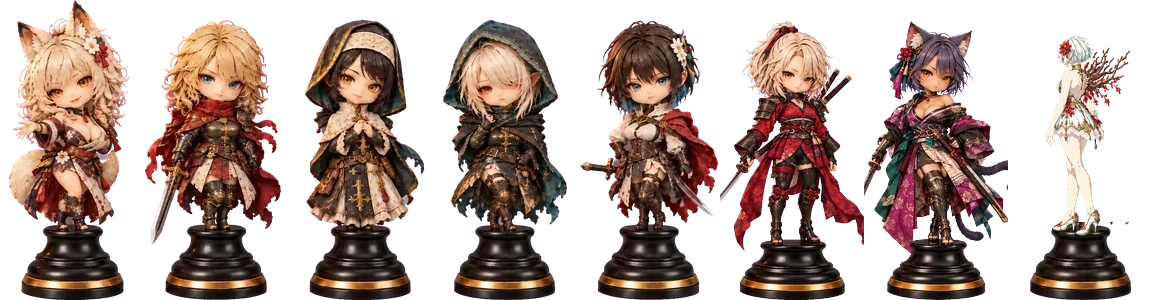
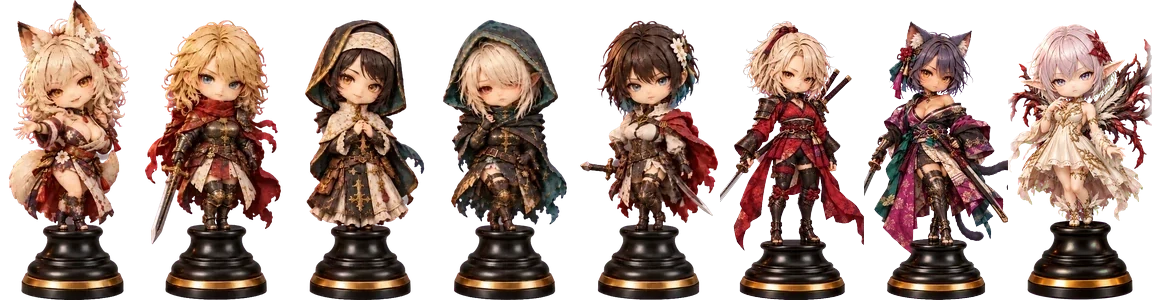
スキル札の種別を縦型・横型・即時・円形の表記に。フィリシアの駒絵を差し替え
Claude-Session: https://claude.ai/code/session_01EzfL2eRTyWvP3wJaydKdc4

Changed region(s): [[0.875, 0.06, 1.0, 1.0]]

diff --git a/index.html b/index.html
@@ -1405,7 +1405,7 @@ const FACES=/*__FACES_START__*/{"blue":"dev/assets/face_blue.webp?v=d1d65e1d","f
 const UPARTS=/*__UPARTS_START__*/{"all":"dev/assets/upart_all.webp?v=b034d68d","common":"dev/assets/upart_common.webp?v=dbfd44b2","mag":"dev/assets/upart_mag.webp?v=b9a34d4c","phys":"dev/assets/upart_phys.webp?v=e8467b5d","taboo":"dev/assets/upart_taboo.webp?v=a8b5e929"}/*__UPARTS_END__*/;
 /* UIの素材。assets/ui_<名前>.webp がビルド時に差し込まれる。leather=操作エリアとサイドエリアの地（継ぎ目なしタイル）/ rewind=逆転の右手の演出絵（黒背景）/ town=街の一枚絵（縦長 941×1672。建物の位置は HUB の表）/
    map=探索の盤面（縦長。上下反転で継ぐ）/ medals=マスのメダル（3×3のシート。透過）/ pieces=キャラクターの駒（横5コマ。透過）/ table=机に置いた地図盤（縦長1枚。盤の内側の位置は TABLE_IN）/ smoke=煙（横3コマ。透過）。どれも無ければコードで描いた代わりの見た目で動く */
-const UI=/*__UI_START__*/{"battle_back_skill":"dev/assets/ui_battle_back_skill.webp?v=15be207c","battle_back_strategy":"dev/assets/ui_battle_back_strategy.webp?v=3cd37fbc","battle_button_frame":"dev/assets/ui_battle_button_frame.webp?v=0bd2fe54","battle_card_frame":"dev/assets/ui_battle_card_frame.webp?v=94ccdbe3","battle_extracted_base":"dev/assets/ui_battle_extracted_base.webp?v=d5fc8f75","battle_extracted_card_frame":"dev/assets/ui_battle_extracted_card_frame.webp?v=e6d3eb7b","battle_face_blue":"dev/assets/ui_battle_face_blue.webp?v=ee087d5e","battle_face_fox":"dev/assets/ui_battle_face_fox.webp?v=76a5d093","battle_face_mage":"dev/assets/ui_battle_face_mage.webp?v=6974f074","battle_face_ninja":"dev/assets/ui_battle_face_ninja.webp?v=2ad5e8c2","battle_face_phyllis":"dev/assets/ui_battle_face_phyllis.webp?v=ed90407e","battle_face_samurai":"dev/assets/ui_battle_face_samurai.webp?v=0425ca9a","battle_face_sister":"dev/assets/ui_battle_face_sister.webp?v=447c034c","battle_face_sword":"dev/assets/ui_battle_face_sword.webp?v=2077b2ff","battle_face_sword_p":"dev/assets/ui_battle_face_sword_p.webp?v=d241ea92","battle_status_frame":"dev/assets/ui_battle_status_frame.webp?v=87f0a57b","battle_strategy_chase":"dev/assets/ui_battle_strategy_chase.webp?v=39356747","battle_strategy_heal":"dev/assets/ui_battle_strategy_heal.webp?v=4ac40551","battle_strategy_redraw":"dev/assets/ui_battle_strategy_redraw.webp?v=0143aa81","battle_strategy_reset":"dev/assets/ui_battle_strategy_reset.webp?v=cc75a6b3","battle_strategy_revive":"dev/assets/ui_battle_strategy_revive.webp?v=12566a9b","battle_strategy_ult":"dev/assets/ui_battle_strategy_ult.webp?v=c94ff79a","battle_tray_full":"dev/assets/ui_battle_tray_full.webp?v=0f564bb4","card_blue":"dev/assets/ui_card_blue.webp?v=ebbc6d54","card_board":"dev/assets/ui_card_board.webp?v=78907028","card_fox":"dev/assets/ui_card_fox.webp?v=747710c3","card_frame":"dev/assets/ui_card_frame.webp?v=f6f34bcf","card_mage":"dev/assets/ui_card_mage.webp?v=56db34cf","card_ninja":"dev/assets/ui_card_ninja.webp?v=004894cf","card_phyllis":"dev/assets/ui_card_phyllis.webp?v=26a1835d","card_samurai":"dev/assets/ui_card_samurai.webp?v=c97c796d","card_sister":"dev/assets/ui_card_sister.webp?v=2687d855","card_sword":"dev/assets/ui_card_sword.webp?v=226d10b8","card_sword_p":"dev/assets/ui_card_sword_p.webp?v=978ef8b1","fac_church":"dev/assets/ui_fac_church.webp?v=d6db7bd7","fac_hut":"dev/assets/ui_fac_hut.webp?v=fc4dfd5c","fac_inn":"dev/assets/ui_fac_inn.webp?v=0f6aa72d","fac_party":"dev/assets/ui_fac_party.webp?v=3522dcd1","fac_shop":"dev/assets/ui_fac_shop.webp?v=54664bca","fac_smith":"dev/assets/ui_fac_smith.webp?v=d648b179","inn_ledger":"dev/assets/ui_inn_ledger.webp?v=841caecc","inn_morn":"dev/assets/ui_inn_morn.webp?v=5ccdcfd0","inn_room":"dev/assets/ui_inn_room.webp?v=003b0995","inn_stable":"dev/assets/ui_inn_stable.webp?v=c160e36d","inn_win":"dev/assets/ui_inn_win.webp?v=78662811","leather":"dev/assets/ui_leather.webp?v=689ae82b","map":"dev/assets/ui_map.webp?v=20a3f245","medals":"dev/assets/ui_medals.webp?v=a1d2f0f6","npc_church":"dev/assets/ui_npc_church.webp?v=fdc70e40","npc_hut":"dev/assets/ui_npc_hut.webp?v=fbae6c7a","npc_inn":"dev/assets/ui_npc_inn.webp?v=a091a3c1","npc_party":"dev/assets/ui_npc_party.webp?v=30068b4c","npc_shop":"dev/assets/ui_npc_shop.webp?v=36a2b627","npc_smith":"dev/assets/ui_npc_smith.webp?v=127a52c8","pieces":"dev/assets/ui_pieces.webp?v=6be7e626","rail_banner":"dev/assets/ui_rail_banner.webp?v=dcad9023","rail_board":"dev/assets/ui_rail_board.webp?v=77644fe6","rail_candle":"dev/assets/ui_rail_candle.webp?v=4520f70f","rail_frame":"dev/assets/ui_rail_frame.webp?v=cf203db5","rewind":"dev/assets/ui_rewind.webp?v=ca7ccacd","sm_card":"dev/assets/ui_sm_card.webp?v=6e4443be","sm_icons":"dev/assets/ui_sm_icons.webp?v=80b73dbe","sm_row":"dev/assets/ui_sm_row.webp?v=20ceff8f","sm_sheet":"dev/assets/ui_sm_sheet.webp?v=30b1d240","sm_slot":"dev/assets/ui_sm_slot.webp?v=0c2184ad","sm_socket":"dev/assets/ui_sm_socket.webp?v=a90fe013","sm_stone":"dev/assets/ui_sm_stone.webp?v=6946735e","sm_tab":"dev/assets/ui_sm_tab.webp?v=806f4f7c","smoke":"dev/assets/ui_smoke.webp?v=d29f6d54","table":"dev/assets/ui_table.webp?v=18d28fc4","table_blood":"dev/assets/ui_table_blood.webp?v=03788474","table_circus":"dev/assets/ui_table_circus.webp?v=678b5117","table_frost":"dev/assets/ui_table_frost.webp?v=79e3a664","table_hallow":"dev/assets/ui_table_hallow.webp?v=15214eb5","table_moon":"dev/assets/ui_table_moon.webp?v=3a38ab4f","table_tomb":"dev/assets/ui_table_tomb.webp?v=bc63b93b","table_war":"dev/assets/ui_table_war.webp?v=bf183e99","table_warm":"dev/assets/ui_table_warm.webp?v=a90d887c","th_coin":"dev/assets/ui_th_coin.webp?v=0d40560e","th_cry":"dev/assets/ui_th_cry.webp?v=3f02e486","th_day":"dev/assets/ui_th_day.webp?v=7898977e","th_ic":"dev/assets/ui_th_ic.webp?v=137e9cb2","th_panel":"dev/assets/ui_th_panel.webp?v=de432569","th_tag":"dev/assets/ui_th_tag.webp?v=6de9cea8","th_vig":"dev/assets/ui_th_vig.webp?v=932d220e","town":"dev/assets/ui_town.webp?v=371c19be","tv_arna":"dev/assets/ui_tv_arna.webp?v=9a09aa21","tv_board":"dev/assets/ui_tv_board.webp?v=e53cd92a","tv_btn":"dev/assets/ui_tv_btn.webp?v=f5ec9c91","tv_chip":"dev/assets/ui_tv_chip.webp?v=7b2e5b91","tv_detail":"dev/assets/ui_tv_detail.webp?v=d6617a5a","tv_icons":"dev/assets/ui_tv_icons.webp?v=0056ecef"}/*__UI_END__*/;
+const UI=/*__UI_START__*/{"battle_back_skill":"dev/assets/ui_battle_back_skill.webp?v=15be207c","battle_back_strategy":"dev/assets/ui_battle_back_strategy.webp?v=3cd37fbc","battle_button_frame":"dev/assets/ui_battle_button_frame.webp?v=0bd2fe54","battle_card_frame":"dev/assets/ui_battle_card_frame.webp?v=94ccdbe3","battle_extracted_base":"dev/assets/ui_battle_extracted_base.webp?v=d5fc8f75","battle_extracted_card_frame":"dev/assets/ui_battle_extracted_card_frame.webp?v=e6d3eb7b","battle_face_blue":"dev/assets/ui_battle_face_blue.webp?v=ee087d5e","battle_face_fox":"dev/assets/ui_battle_face_fox.webp?v=76a5d093","battle_face_mage":"dev/assets/ui_battle_face_mage.webp?v=6974f074","battle_face_ninja":"dev/assets/ui_battle_face_ninja.webp?v=2ad5e8c2","battle_face_phyllis":"dev/assets/ui_battle_face_phyllis.webp?v=ed90407e","battle_face_samurai":"dev/assets/ui_battle_face_samurai.webp?v=0425ca9a","battle_face_sister":"dev/assets/ui_battle_face_sister.webp?v=447c034c","battle_face_sword":"dev/assets/ui_battle_face_sword.webp?v=2077b2ff","battle_face_sword_p":"dev/assets/ui_battle_face_sword_p.webp?v=d241ea92","battle_status_frame":"dev/assets/ui_battle_status_frame.webp?v=87f0a57b","battle_strategy_chase":"dev/assets/ui_battle_strategy_chase.webp?v=39356747","battle_strategy_heal":"dev/assets/ui_battle_strategy_heal.webp?v=4ac40551","battle_strategy_redraw":"dev/assets/ui_battle_strategy_redraw.webp?v=0143aa81","battle_strategy_reset":"dev/assets/ui_battle_strategy_reset.webp?v=cc75a6b3","battle_strategy_revive":"dev/assets/ui_battle_strategy_revive.webp?v=12566a9b","battle_strategy_ult":"dev/assets/ui_battle_strategy_ult.webp?v=c94ff79a","battle_tray_full":"dev/assets/ui_battle_tray_full.webp?v=0f564bb4","card_blue":"dev/assets/ui_card_blue.webp?v=ebbc6d54","card_board":"dev/assets/ui_card_board.webp?v=78907028","card_fox":"dev/assets/ui_card_fox.webp?v=747710c3","card_frame":"dev/assets/ui_card_frame.webp?v=f6f34bcf","card_mage":"dev/assets/ui_card_mage.webp?v=56db34cf","card_ninja":"dev/assets/ui_card_ninja.webp?v=004894cf","card_phyllis":"dev/assets/ui_card_phyllis.webp?v=26a1835d","card_samurai":"dev/assets/ui_card_samurai.webp?v=c97c796d","card_sister":"dev/assets/ui_card_sister.webp?v=2687d855","card_sword":"dev/assets/ui_card_sword.webp?v=226d10b8","card_sword_p":"dev/assets/ui_card_sword_p.webp?v=978ef8b1","fac_church":"dev/assets/ui_fac_church.webp?v=d6db7bd7","fac_hut":"dev/assets/ui_fac_hut.webp?v=fc4dfd5c","fac_inn":"dev/assets/ui_fac_inn.webp?v=0f6aa72d","fac_party":"dev/assets/ui_fac_party.webp?v=3522dcd1","fac_shop":"dev/assets/ui_fac_shop.webp?v=54664bca","fac_smith":"dev/assets/ui_fac_smith.webp?v=d648b179","inn_ledger":"dev/assets/ui_inn_ledger.webp?v=841caecc","inn_morn":"dev/assets/ui_inn_morn.webp?v=5ccdcfd0","inn_room":"dev/assets/ui_inn_room.webp?v=003b0995","inn_stable":"dev/assets/ui_inn_stable.webp?v=c160e36d","inn_win":"dev/assets/ui_inn_win.webp?v=78662811","leather":"dev/assets/ui_leather.webp?v=689ae82b","map":"dev/assets/ui_map.webp?v=20a3f245","medals":"dev/assets/ui_medals.webp?v=a1d2f0f6","npc_church":"dev/assets/ui_npc_church.webp?v=fdc70e40","npc_hut":"dev/assets/ui_npc_hut.webp?v=fbae6c7a","npc_inn":"dev/assets/ui_npc_inn.webp?v=a091a3c1","npc_party":"dev/assets/ui_npc_party.webp?v=30068b4c","npc_shop":"dev/assets/ui_npc_shop.webp?v=36a2b627","npc_smith":"dev/assets/ui_npc_smith.webp?v=127a52c8","pieces":"dev/assets/ui_pieces.webp?v=02159b41","rail_banner":"dev/assets/ui_rail_banner.webp?v=dcad9023","rail_board":"dev/assets/ui_rail_board.webp?v=77644fe6","rail_candle":"dev/assets/ui_rail_candle.webp?v=4520f70f","rail_frame":"dev/assets/ui_rail_frame.webp?v=cf203db5","rewind":"dev/assets/ui_rewind.webp?v=ca7ccacd","sm_card":"dev/assets/ui_sm_card.webp?v=6e4443be","sm_icons":"dev/assets/ui_sm_icons.webp?v=80b73dbe","sm_row":"dev/assets/ui_sm_row.webp?v=20ceff8f","sm_sheet":"dev/assets/ui_sm_sheet.webp?v=30b1d240","sm_slot":"dev/assets/ui_sm_slot.webp?v=0c2184ad","sm_socket":"dev/assets/ui_sm_socket.webp?v=a90fe013","sm_stone":"dev/assets/ui_sm_stone.webp?v=6946735e","sm_tab":"dev/assets/ui_sm_tab.webp?v=806f4f7c","smoke":"dev/assets/ui_smoke.webp?v=d29f6d54","table":"dev/assets/ui_table.webp?v=18d28fc4","table_blood":"dev/assets/ui_table_blood.webp?v=03788474","table_circus":"dev/assets/ui_table_circus.webp?v=678b5117","table_frost":"dev/assets/ui_table_frost.webp?v=79e3a664","table_hallow":"dev/assets/ui_table_hallow.webp?v=15214eb5","table_moon":"dev/assets/ui_table_moon.webp?v=3a38ab4f","table_tomb":"dev/assets/ui_table_tomb.webp?v=bc63b93b","table_war":"dev/assets/ui_table_war.webp?v=bf183e99","table_warm":"dev/assets/ui_table_warm.webp?v=a90d887c","th_coin":"dev/assets/ui_th_coin.webp?v=0d40560e","th_cry":"dev/assets/ui_th_cry.webp?v=3f02e486","th_day":"dev/assets/ui_th_day.webp?v=7898977e","th_ic":"dev/assets/ui_th_ic.webp?v=137e9cb2","th_panel":"dev/assets/ui_th_panel.webp?v=de432569","th_tag":"dev/assets/ui_th_tag.webp?v=6de9cea8","th_vig":"dev/assets/ui_th_vig.webp?v=932d220e","town":"dev/assets/ui_town.webp?v=371c19be","tv_arna":"dev/assets/ui_tv_arna.webp?v=9a09aa21","tv_board":"dev/assets/ui_tv_board.webp?v=e53cd92a","tv_btn":"dev/assets/ui_tv_btn.webp?v=f5ec9c91","tv_chip":"dev/assets/ui_tv_chip.webp?v=7b2e5b91","tv_detail":"dev/assets/ui_tv_detail.webp?v=d6617a5a","tv_icons":"dev/assets/ui_tv_icons.webp?v=0056ecef"}/*__UI_END__*/;
 // assets/event_<名前>.webp。配布版にも埋め込むので、公開先のパスに依存しない。
 const EVENT_ART=/*__EVENTS_START__*/{"altar":"dev/assets/event_altar.webp?v=6d39085f","bones":"dev/assets/event_bones.webp?v=e9d55e77","camp":"dev/assets/event_camp.webp?v=07cd7fd4","chest":"dev/assets/event_chest.webp?v=04403d90","chest_open":"dev/assets/event_chest_open.webp?v=a8b14fd0","collapse":"dev/assets/event_collapse.webp?v=1763218f","rest_1":"dev/assets/event_rest_1.webp?v=159db8ab","rest_2":"dev/assets/event_rest_2.webp?v=b112ca35","rest_house_1":"dev/assets/event_rest_house_1.webp?v=5b8b6ccd","rest_house_2":"dev/assets/event_rest_house_2.webp?v=023aa0a2","spring":"dev/assets/event_spring.webp?v=915c08ac","wounded":"dev/assets/event_wounded.webp?v=48325713"}/*__EVENTS_END__*/;
 /* 攻撃とスキルのVFX（assets/vfx_<名前>.webp）。黒背景の光もの＝加算合成で重ねる（黒は消える）。氷と地割れだけ透過の絵を普通に重ねる。
@@ -3350,6 +3350,8 @@ function updShots(dt){
 }
 
 /* ---- アクティブスキル ---- */
+// 手札のスキル札の種別（2026-10-18 ユーザー指示「スキル」の表記を、効き方が分かる語に）：即時＝狙わずに発動／縦型＝縦一列／横型＝横一列／円形＝狙った所を中心に円
+const skillKind=c=>c.kind==='instant'?'即時':c.shape==='col'?'縦型':c.shape==='row'?'横型':'円形';
 function useCard(si,x,y){
   const s=B.slots[si];if(!s||!s.card||mode!=='battle'||ULT)return false;
   const c=s.card;if(c.category==='strategy')return useStrategy(si);
@@ -4961,7 +4963,7 @@ function syncDOM(){
           return'<div class="card back'+(back?' back-art':'')+'" data-i="'+i+'"><span class="ar">'+(back?'<img alt="" draggable="false" src="'+back+'">':'')+'<span class="fill"></span></span><img class="fr" alt="" draggable="false" src="'+BATTLE_CARD_FRAME+'"><span class="ki">'+(i===STRATEGY_SLOT?'戦略 装填中':B.queue.length||s.refill>0?'装填中':'札なし')+'</span></div>';
         }
         const c=s.card,art=c.category==='strategy'?UI['battle_strategy_'+c.effect]:cosA(UI,c.owner,'card_');
-        return'<button class="card'+(c.category==='strategy'?' strategy '+c.effect+(c.rare?' rare':''):'')+(B.sel===i?' sel':'')+(cb===c.owner?' combo':'')+'" data-i="'+i+'" aria-label="'+c.name+'：'+c.desc+'">'+comboBar(c)+'<span class="ar">'+(art?'<img alt="" draggable="false" src="'+art+'">':c.category==='strategy'?strategyMotif(c.effect):'')+'</span><span class="sn'+(c.name.length>4?' lg':'')+'">'+c.name+'</span><img class="fr" alt="" draggable="false" src="'+BATTLE_CARD_FRAME+'"><span class="ki">'+(c.category==='strategy'?(c.rare?'希少戦略':'戦略'):'スキル')+'</span></button>';
+        return'<button class="card'+(c.category==='strategy'?' strategy '+c.effect+(c.rare?' rare':''):'')+(B.sel===i?' sel':'')+(cb===c.owner?' combo':'')+'" data-i="'+i+'" aria-label="'+c.name+'：'+c.desc+'">'+comboBar(c)+'<span class="ar">'+(art?'<img alt="" draggable="false" src="'+art+'">':c.category==='strategy'?strategyMotif(c.effect):'')+'</span><span class="sn'+(c.name.length>4?' lg':'')+'">'+c.name+'</span><img class="fr" alt="" draggable="false" src="'+BATTLE_CARD_FRAME+'"><span class="ki">'+(c.category==='strategy'?(c.rare?'希少戦略':'戦略'):skillKind(c))+'</span></button>';
       }
       if(!s.card)return'<div class="card empty" data-i="'+i+'"><span class="fill"></span><span class="ds">'+(i===STRATEGY_SLOT?'戦略 装填中':B.queue.length||s.refill>0?'装填中':'札なし')+'</span></div>';
       const c=s.card,o=CHARS[c.owner]||{color:'#71c999',short:'戦略'};

diff --git a/dev/naraku_src.html b/dev/naraku_src.html
@@ -3350,6 +3350,8 @@ function updShots(dt){
 }
 
 /* ---- アクティブスキル ---- */
+// 手札のスキル札の種別（2026-10-18 ユーザー指示「スキル」の表記を、効き方が分かる語に）：即時＝狙わずに発動／縦型＝縦一列／横型＝横一列／円形＝狙った所を中心に円
+const skillKind=c=>c.kind==='instant'?'即時':c.shape==='col'?'縦型':c.shape==='row'?'横型':'円形';
 function useCard(si,x,y){
   const s=B.slots[si];if(!s||!s.card||mode!=='battle'||ULT)return false;
   const c=s.card;if(c.category==='strategy')return useStrategy(si);
@@ -4961,7 +4963,7 @@ function syncDOM(){
           return'<div class="card back'+(back?' back-art':'')+'" data-i="'+i+'"><span class="ar">'+(back?'<img alt="" draggable="false" src="'+back+'">':'')+'<span class="fill"></span></span><img class="fr" alt="" draggable="false" src="'+BATTLE_CARD_FRAME+'"><span class="ki">'+(i===STRATEGY_SLOT?'戦略 装填中':B.queue.length||s.refill>0?'装填中':'札なし')+'</span></div>';
         }
         const c=s.card,art=c.category==='strategy'?UI['battle_strategy_'+c.effect]:cosA(UI,c.owner,'card_');
-        return'<button class="card'+(c.category==='strategy'?' strategy '+c.effect+(c.rare?' rare':''):'')+(B.sel===i?' sel':'')+(cb===c.owner?' combo':'')+'" data-i="'+i+'" aria-label="'+c.name+'：'+c.desc+'">'+comboBar(c)+'<span class="ar">'+(art?'<img alt="" draggable="false" src="'+art+'">':c.category==='strategy'?strategyMotif(c.effect):'')+'</span><span class="sn'+(c.name.length>4?' lg':'')+'">'+c.name+'</span><img class="fr" alt="" draggable="false" src="'+BATTLE_CARD_FRAME+'"><span class="ki">'+(c.category==='strategy'?(c.rare?'希少戦略':'戦略'):'スキル')+'</span></button>';
+        return'<button class="card'+(c.category==='strategy'?' strategy '+c.effect+(c.rare?' rare':''):'')+(B.sel===i?' sel':'')+(cb===c.owner?' combo':'')+'" data-i="'+i+'" aria-label="'+c.name+'：'+c.desc+'">'+comboBar(c)+'<span class="ar">'+(art?'<img alt="" draggable="false" src="'+art+'">':c.category==='strategy'?strategyMotif(c.effect):'')+'</span><span class="sn'+(c.name.length>4?' lg':'')+'">'+c.name+'</span><img class="fr" alt="" draggable="false" src="'+BATTLE_CARD_FRAME+'"><span class="ki">'+(c.category==='strategy'?(c.rare?'希少戦略':'戦略'):skillKind(c))+'</span></button>';
       }
       if(!s.card)return'<div class="card empty" data-i="'+i+'"><span class="fill"></span><span class="ds">'+(i===STRATEGY_SLOT?'戦略 装填中':B.queue.length||s.refill>0?'装填中':'札なし')+'</span></div>';
       const c=s.card,o=CHARS[c.owner]||{color:'#71c999',short:'戦略'};

diff --git a/dev/HANDOFF.md b/dev/HANDOFF.md
@@ -5,6 +5,12 @@
 - 保留：提案3「施設への投資（見た目が育つ箱庭）」はユーザー判断で後回し。本番へ出すときはテスト版の dev/ と index.html をコピー（AGENTS.md）。
 - 検証の入口：smoke.py・boot.py・omens.py・lana_princess.py・smith_reforge.py・retreat_cost.py・cataclysm.py（すべて http の URL）。
 
+## 現在地（2026-10-18 22時台・続）：スキル札の種別を「縦型・横型・即時・円形」に／フィリシアの駒絵（テスト版のみ・確認待ち）
+- 事実：ユーザー指示「カードの下の『スキル』を、縦型・横型・即時・円形と分かりやすい表記に」。`skillKind(c)`＝kind:'instant'→即時、shape:'col'→縦型、shape:'row'→横型、それ以外（狙った所を中心の円）→円形。手札の札の `.ki` に使う。戦略札は従来どおり「戦略／希少戦略」。現行の札では 縦型＝乾坤一擲・居合一文字、横型＝蒼月一閃、即時＝癒しの祈り・一閃斬月、他は円形。
+- 事実：ユーザーのちびキャラ駒絵（`cardart/src_phyllis_art/piece.png`、1024×1536・マゼンタ）を抜いて0.205倍、台座の中心と底を既存の駒に揃えて `ui_pieces.webp` の8コマ目へ（仮の駒を置き換え）。翼が枠の幅144pxを少しはみ出すので、左右10pxをぼかして切れ目を目立たなくした。
+- 事実：smoke RESULT OK（勝率 0/12・5/12・12/12・12/12）、boot エラーなし。撮影で札の表記（縦型・横型・即時・円形・円形）と探索の盤の駒を確認。
+- 仮説：駒は他より翼の分だけ横に広く、本体はやや小さく見える。気になれば翼を少し切り詰めて本体を大きくする。
+
 ## 現在地（2026-10-18 22時台）：新キャラ フィリシア（phyllis・魔法の範囲攻撃）を追加。酒場で雇う（300G）（テスト版のみ・実機の感触待ち）
 - 事実：ユーザー決定「名前フィリシア、魔法の範囲攻撃役、キャラ色 #e0304a。コンセプトは魔法の枯れ枝と鮮血のような花で戦う魔法使い」。鋼の瘴気の日に魔法キャラが2人しかいない件への対応（魔法は3人に）。CHAR_ORDER は8人、`CHAR_TAG.phyllis='mag'`、`HIRE.phyllis` 300G（最初は未加入）。
 - 事実：性能 `CHARS.phyllis`＝HP85・射程250・間隔1.35秒・威力17・`atk:'circle'`（狙った敵の位置に半径54の円）。通常攻撃の見た目は `phyFx`（手元から的へ茨が伸び、着弾点で血の花＝赤い輪と花びら）。
